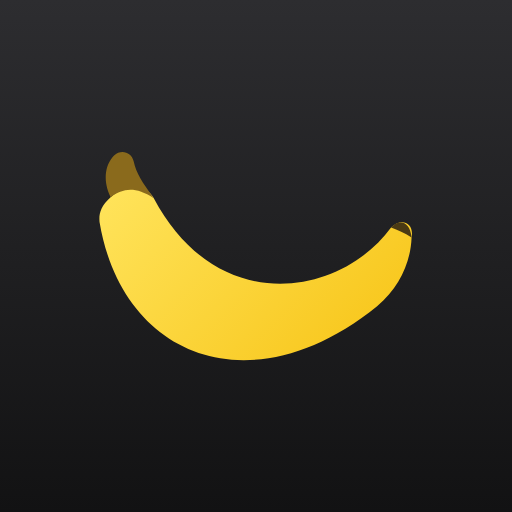
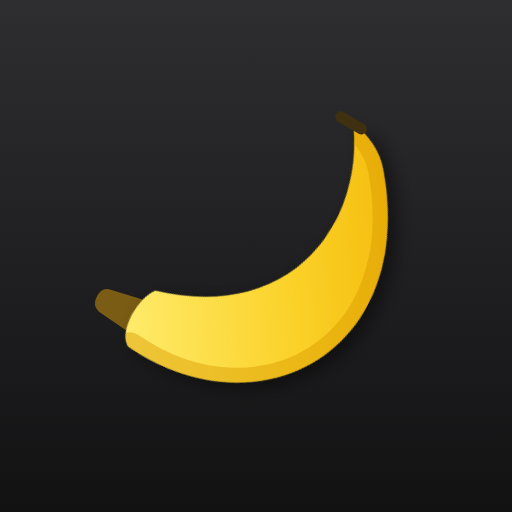
Icoon: hoekje verholpen, banaan mooier en meer rechtop
De 180px-versie had witte hoeken door een renderfout. Nu op 512px
gerenderd en teruggeschaald. Cache opgehoogd.

Claude-Session: https://claude.ai/code/session_01VkXAbxqrV6M59KGasHo6qD

Changed region(s): [[0.1875, 0.2188, 0.8125, 0.75]]

diff --git a/service-worker.js b/service-worker.js
@@ -1,1 +1,1 @@
-const CACHE='boodschappen-v4';const ASSETS=['./','./index.html','./manifest.webmanifest','./icon-180.png','./icon-192.png','./icon-512.png'];self.addEventListener('install',e=>e.waitUntil(caches.open(CACHE).then(c=>c.addAll(ASSETS)).then(()=>self.skipWaiting())));self.addEventListener('activate',e=>e.waitUntil(caches.keys().then(keys=>Promise.all(keys.filter(k=>k!==CACHE).map(k=>caches.delete(k)))).then(()=>self.clients.claim())));self.addEventListener('fetch',e=>{if(e.request.method!=='GET')return;e.respondWith(caches.match(e.request).then(r=>r||fetch(e.request).then(resp=>{const copy=resp.clone();caches.open(CACHE).then(c=>c.put(e.request,copy));return resp}).catch(()=>caches.match('./index.html'))))});
+const CACHE='boodschappen-v5';const ASSETS=['./','./index.html','./manifest.webmanifest','./icon-180.png','./icon-192.png','./icon-512.png'];self.addEventListener('install',e=>e.waitUntil(caches.open(CACHE).then(c=>c.addAll(ASSETS)).then(()=>self.skipWaiting())));self.addEventListener('activate',e=>e.waitUntil(caches.keys().then(keys=>Promise.all(keys.filter(k=>k!==CACHE).map(k=>caches.delete(k)))).then(()=>self.clients.claim())));self.addEventListener('fetch',e=>{if(e.request.method!=='GET')return;e.respondWith(caches.match(e.request).then(r=>r||fetch(e.request).then(resp=>{const copy=resp.clone();caches.open(CACHE).then(c=>c.put(e.request,copy));return resp}).catch(()=>caches.match('./index.html'))))});
